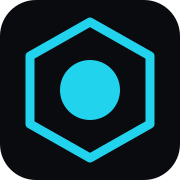
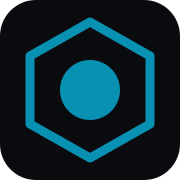
style: darken cyan accent
Brought the cyan down from oklch(0.81 0.14 200) to oklch(0.62 0.13 200)
in dark theme — visibly darker, more saturated, closer to a deep teal
than a bright sky cyan.

Updated in:
- globals.css token (--color-accent)
- All hardcoded oklch references in tsx files (badge, input, button hover,
  log-viewer, deployment-timeline, project-table, live-dashboard-preview)
- app/icon.svg favicon (#22D3EE → #0891B2)
- app/apple-icon.png regenerated with the new color
- opengraph-image.tsx social preview hex

Status colors (red/yellow/green) untouched — those signal state and
need their own brightness budget.

Changed region(s): [[0.1389, 0.0833, 0.8611, 0.9167], [0.3333, 0.3333, 0.6667, 0.6667]]

diff --git a/web/app/globals.css b/web/app/globals.css
@@ -12,9 +12,9 @@
   --color-fg: oklch(0.98 0 0);
   --color-fg-muted: oklch(0.7 0 0);
   --color-fg-subtle: oklch(0.55 0 0);
-  --color-accent: oklch(0.81 0.14 200);
-  --color-accent-soft: oklch(0.78 0.14 200 / 0.18);
-  --color-accent-2: oklch(0.74 0.18 295);
+  --color-accent: oklch(0.62 0.13 200);
+  --color-accent-soft: oklch(0.62 0.13 200 / 0.18);
+  --color-accent-2: oklch(0.58 0.18 295);
   --color-success: oklch(0.78 0.16 155);
   --color-warning: oklch(0.82 0.16 80);
   --color-danger: oklch(0.69 0.22 25);

diff --git a/web/app/opengraph-image.tsx b/web/app/opengraph-image.tsx
@@ -32,11 +32,11 @@ export default async function Image() {
           >
             <path
               d="M16 2.5 L27.5 9 L27.5 23 L16 29.5 L4.5 23 L4.5 9 Z"
-              stroke="#22D3EE"
+              stroke="#0891B2"
               strokeWidth="2"
               strokeLinejoin="round"
             />
-            <circle cx="16" cy="16" r="5.5" fill="#22D3EE" />
+            <circle cx="16" cy="16" r="5.5" fill="#0891B2" />
           </svg>
           <div
             style={{
@@ -61,7 +61,7 @@ export default async function Image() {
             }}
           >
             Production telemetry,{" "}
-            <span style={{ color: "#22D3EE" }}>explained by AI.</span>
+            <span style={{ color: "#0891B2" }}>explained by AI.</span>
           </div>
           <div
             style={{

diff --git a/web/components/logs/log-viewer.tsx b/web/components/logs/log-viewer.tsx
@@ -17,8 +17,8 @@ const levelStyles: Record<
   { dot: string; chip: string; row: string }
 > = {
   info: {
-    dot: "bg-[oklch(0.81_0.14_200)]",
-    chip: "text-[oklch(0.88_0.12_200)] border-[oklch(0.81_0.14_200/0.4)] bg-[oklch(0.81_0.14_200/0.08)]",
+    dot: "bg-[oklch(0.62_0.13_200)]",
+    chip: "text-[oklch(0.78_0.13_200)] border-[oklch(0.62_0.13_200/0.4)] bg-[oklch(0.62_0.13_200/0.08)]",
     row: "",
   },
   warn: {

diff --git a/web/components/landing/live-dashboard-preview.tsx b/web/components/landing/live-dashboard-preview.tsx
@@ -181,7 +181,7 @@ function MetricTile({
   accent: "cyan" | "violet" | "emerald";
 }) {
   const colors = {
-    cyan: "text-[oklch(0.88_0.12_200)]",
+    cyan: "text-[oklch(0.78_0.13_200)]",
     violet: "text-[oklch(0.85_0.14_295)]",
     emerald: "text-[oklch(0.85_0.14_155)]",
   };

diff --git a/web/components/projects/deployment-timeline.tsx b/web/components/projects/deployment-timeline.tsx
@@ -31,7 +31,7 @@ const statusConfig: Record<
   },
   building: {
     label: "Building",
-    color: "text-[oklch(0.88_0.12_200)] border-[oklch(0.81_0.14_200/0.45)] bg-[oklch(0.81_0.14_200/0.1)]",
+    color: "text-[oklch(0.78_0.13_200)] border-[oklch(0.62_0.13_200/0.45)] bg-[oklch(0.62_0.13_200/0.1)]",
     icon: GitBranch,
   },
   canceled: {

diff --git a/web/components/projects/project-table.tsx b/web/components/projects/project-table.tsx
@@ -391,7 +391,7 @@ function Chip({
       className={cn(
         "inline-flex items-center gap-1.5 rounded-md border px-2 py-1 text-[11px] font-medium transition capitalize",
         active
-          ? "border-[var(--color-accent)] bg-[oklch(0.81_0.14_200/0.1)] text-[var(--color-fg)]"
+          ? "border-[var(--color-accent)] bg-[oklch(0.62_0.13_200/0.1)] text-[var(--color-fg)]"
           : "border-[var(--color-border)] bg-transparent text-[var(--color-fg-muted)] hover:text-[var(--color-fg)] hover:border-[var(--color-border-strong)]",
       )}
     >

diff --git a/web/components/ui/badge.tsx b/web/components/ui/badge.tsx
@@ -16,7 +16,7 @@ const badgeVariants = cva(
         danger:
           "border-[oklch(0.69_0.22_25/0.5)] bg-[oklch(0.69_0.22_25/0.15)] text-[oklch(0.82_0.18_25)]",
         accent:
-          "border-[oklch(0.81_0.14_200/0.45)] bg-[oklch(0.81_0.14_200/0.12)] text-[oklch(0.88_0.12_200)]",
+          "border-[oklch(0.62_0.13_200/0.45)] bg-[oklch(0.62_0.13_200/0.12)] text-[oklch(0.78_0.13_200)]",
         violet:
           "border-[oklch(0.74_0.18_295/0.45)] bg-[oklch(0.74_0.18_295/0.12)] text-[oklch(0.85_0.14_295)]",
         outline:

diff --git a/web/components/ui/button.tsx b/web/components/ui/button.tsx
@@ -11,7 +11,7 @@ const buttonVariants = cva(
     variants: {
       variant: {
         default:
-          "bg-[var(--color-accent)] text-black hover:bg-[oklch(0.86_0.13_200)]",
+          "bg-[var(--color-accent)] text-black hover:bg-[oklch(0.7_0.13_200)]",
         secondary:
           "bg-[var(--color-surface-2)] text-[var(--color-fg)] hover:bg-[var(--color-surface-3)] border border-[var(--color-border)]",
         outline:

diff --git a/web/components/ui/input.tsx b/web/components/ui/input.tsx
@@ -11,7 +11,7 @@ export const Input = React.forwardRef<
     className={cn(
       "flex h-9 w-full rounded-md border border-[var(--color-border)] bg-[var(--color-surface)] px-3 py-1 text-sm shadow-sm transition-colors",
       "placeholder:text-[var(--color-fg-subtle)]",
-      "focus-visible:outline-none focus-visible:border-[var(--color-accent)] focus-visible:ring-2 focus-visible:ring-[oklch(0.81_0.14_200/0.25)]",
+      "focus-visible:outline-none focus-visible:border-[var(--color-accent)] focus-visible:ring-2 focus-visible:ring-[oklch(0.62_0.13_200/0.25)]",
       "disabled:cursor-not-allowed disabled:opacity-50",
       className,
     )}